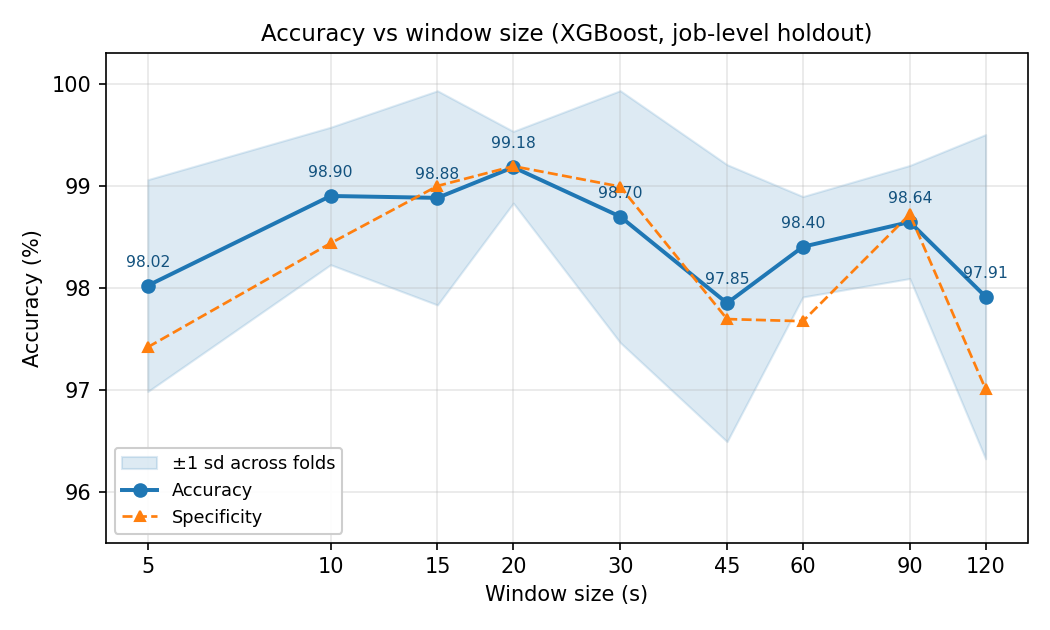
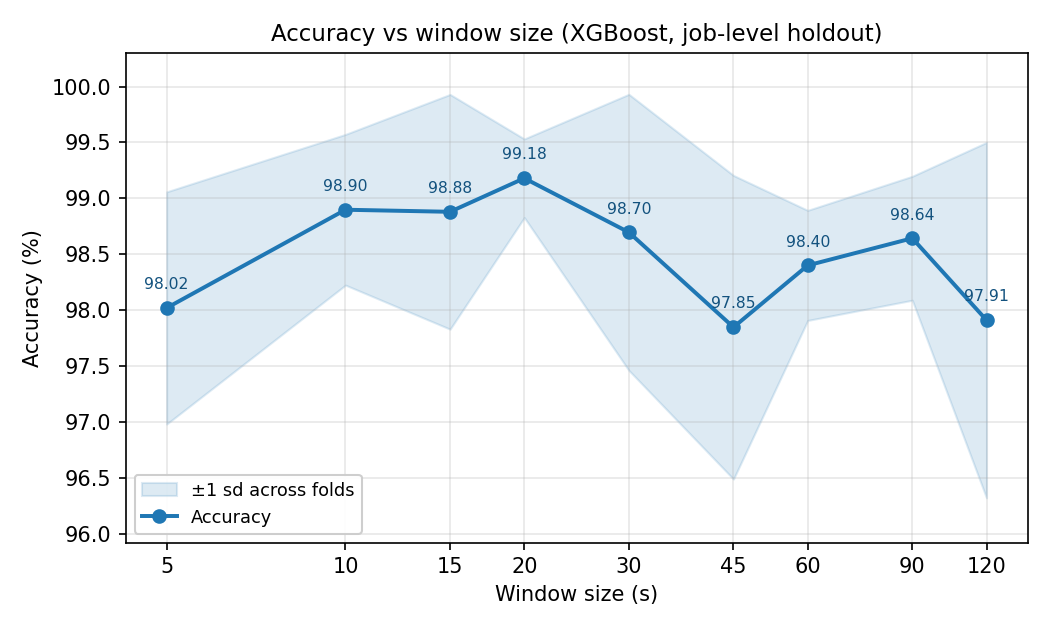
Figure 3: drop the specificity series
Accuracy only. Specificity is already reported per window size in the source
JSON and in Table 2, and plotting both made the figure argue two things at
once: the point of this one is that the between-size differences are smaller
than the fold-to-fold spread.

The y-limits now follow the accuracy band instead of being fixed, so removing
the second series tightens the view (96.0-100.0) rather than leaving dead space
where the specificity line used to run.

Same output paths, so the files already referenced from the draft are
overwritten in place.

diff --git a/scripts/paper_figure3_plot.py b/scripts/paper_figure3_plot.py
@@ -10,6 +10,9 @@ accuracy differences between window sizes are smaller than the fold-to-fold
 spread at most sizes, which is what makes the "latency is nearly free" claim
 defensible.
 
+Accuracy only: specificity is reported per window size in the source JSON and in
+Table 2, and plotting it here made the figure argue two things at once.
+
 Usage:
   python3 scripts/paper_figure3_plot.py \
       --json docs/camera_ready_results_20261022/paper_figure3_job_id_xgb.json \
@@ -35,14 +38,11 @@ rows = sorted(J["rows"], key=lambda r: r["window_sec"])
 w = np.array([r["window_sec"] for r in rows], float)
 acc = np.array([r["accuracy"] for r in rows]) * 100
 sd = np.array([r["std"] for r in rows]) * 100
-spec = np.array([r["specificity"] for r in rows]) * 100
 
 fig, ax = plt.subplots(figsize=(7.0, 4.2))
 ax.fill_between(w, acc - sd, acc + sd, color="#1f77b4", alpha=0.15,
                 label="±1 sd across folds")
 ax.plot(w, acc, marker="o", color="#1f77b4", lw=1.9, ms=6, label="Accuracy")
-ax.plot(w, spec, marker="^", color="#ff7f0e", lw=1.3, ms=5, ls="--",
-        label="Specificity")
 
 for x, yv in zip(w, acc):
     ax.annotate(f"{yv:.2f}", (x, yv), textcoords="offset points",
@@ -54,7 +54,7 @@ ax.set_xticklabels([f"{int(v)}" for v in w])
 ax.minorticks_off()
 ax.set_xlabel("Window size (s)")
 ax.set_ylabel("Accuracy (%)")
-ax.set_ylim(95.5, 100.3)
+ax.set_ylim(min(acc - sd) - 0.4, min(max(acc + sd) + 0.4, 100.3))
 ax.grid(alpha=0.3)
 ax.set_title(a.title, fontsize=11)
 ax.legend(loc="lower left", fontsize=8.5, framealpha=0.95)
